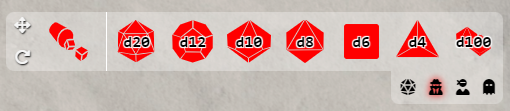
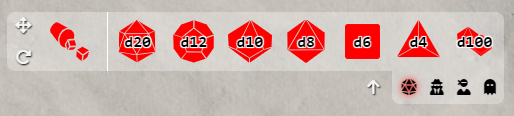
- change role mode button position on the fly

diff --git a/styles/fast-dice-box.css b/styles/fast-dice-box.css
@@ -36,7 +36,7 @@
 }
 
 #fast-dice-box .dice-content,
-#fast-dice-box .roll-mode-content{
+#fast-dice-box .roll-modes {
   display: flex;
   gap: var(--fdb-gap);
   height: fit-content;
@@ -46,21 +46,24 @@
   font-size: var(--fdb-font-size);
 }
 
-#fast-dice-box .dice-content {
-
-}
-
 #fast-dice-box .roll-mode-content {
-  justify-content: end;
-  align-self: end;
-  background-color: var(--fdb-background-color);
-}
-
-#fast-dice-box .roll-mode-content > i {
+  display: flex;
+  align-items: center;
+  gap: var(--fdb-gap);
   pointer-events: all;
 }
 
-#fast-dice-box .roll-mode-content > i.active {
+#fast-dice-box .roll-mode-content, #fast-dice-box .roll-modes {
+  justify-content: end;
+  align-self: end;
+}
+
+#fast-dice-box .roll-mode-content > i,
+#fast-dice-box .roll-modes > i{
+  pointer-events: all;
+}
+
+#fast-dice-box .roll-modes > i.active {
   /*noinspection CssUnresolvedCustomProperty*/
   text-shadow: 0 0 8px var(--color-shadow-primary);
 }
@@ -73,17 +76,16 @@
   border-radius: 0 0 0 var(--fdb-border-radius);
 }
 
-#fast-dice-box.row .roll-mode-content {
+#fast-dice-box.row .roll-modes {
   border-radius: 0 0 var(--fdb-border-radius) var(--fdb-border-radius);
 }
 
-#fast-dice-box.column .roll-mode-content {
+#fast-dice-box.column .roll-modes {
   border-radius: 0 var(--fdb-border-radius) var(--fdb-border-radius) 0;
 }
 
 #fast-dice-box.row,
 #fast-dice-box.row > .content > .dice-content,
-#fast-dice-box.row > .content > .roll-mode-content,
 #fast-dice-box.column > .content,
 #fast-dice-box.column .buttons {
   flex-direction: row;
@@ -91,9 +93,18 @@
 
 #fast-dice-box.column,
 #fast-dice-box.column > .content > .dice-content,
-#fast-dice-box.column > .content > .roll-mode-content,
 #fast-dice-box.row > .content,
 #fast-dice-box.row .buttons {
+  flex-direction: column;
+}
+
+#fast-dice-box.row > .content > .roll-mode-content,
+#fast-dice-box.row > .content > .roll-mode-content > .roll-modes {
+  flex-direction: row;
+}
+
+#fast-dice-box.column > .content > .roll-mode-content,
+#fast-dice-box.column > .content > .roll-mode-content > .roll-modes {
   flex-direction: column;
 }
 
@@ -117,11 +128,11 @@
   border-radius: 0 0 var(--fdb-border-radius) 0;
 }
 
-#fast-dice-box.row.reversed .roll-mode-content {
+#fast-dice-box.row.reversed .roll-modes {
   border-radius: var(--fdb-border-radius) var(--fdb-border-radius) 0 0;
 }
 
-#fast-dice-box.column.reversed .roll-mode-content {
+#fast-dice-box.column.reversed .roll-modes {
   border-radius: var(--fdb-border-radius) 0 0 var(--fdb-border-radius);
 }
 
@@ -136,6 +147,11 @@
   height: fit-content;
   width: fit-content;
   font-size: var(--fdb-font-size);
+}
+
+#fast-dice-box .roll-mode-content > i {
+  color: whitesmoke;
+  text-shadow: 1px 1px 2px var(--color-shadow-dark);
 }
 
 #fast-dice-box.row > .controls {

diff --git a/module/fast-dice-box.js b/module/fast-dice-box.js
@@ -71,8 +71,32 @@ export class FastDiceBox extends Application {
             element.get(0).classList.add(directionColumn ? "column" : "row");
             element.get(0).classList.remove(directionColumn ? "row" : "column");
 
-            element.find(`.roll-mode-content > i`).removeClass("active");
-            element.find(`.roll-mode-content > i[data-rm=${rollMode}]`).addClass("active");
+            element.find(".roll-mode-content > i").removeClass();
+            element.find(".roll-mode-content > i").addClass("fa-solid");
+
+            if(!directionColumn) {
+                if(rollModeReversed) {
+                    element.find(".roll-mode-content > i").addClass("fa-arrow-down");
+
+                }
+                else {
+                    element.find(".roll-mode-content > i").addClass("fa-arrow-up");
+                }
+            }
+            else {
+                if(rollModeReversed) {
+                    element.find(".roll-mode-content > i").addClass("fa-arrow-right");
+
+                }
+                else {
+                    element.find(".roll-mode-content > i").addClass("fa-arrow-left");
+                }
+            }
+
+
+
+            element.find(`.roll-modes > i`).removeClass("active");
+            element.find(`.roll-modes > i[data-rm=${rollMode}]`).addClass("active");
 
             if(rollModeReversed){
                 element.addClass("reversed");
@@ -93,7 +117,8 @@ export class FastDiceBox extends Application {
 
         html.find("#orientation").mousedown(this.onOrientationChange)
 
-        html.find(".roll-mode-content > i").mousedown(this.onChangeRollMode);
+        html.find(".roll-mode-content > i").mousedown(this.onChangeRollModePosition)
+        html.find(".roll-modes > i").mousedown(this.onChangeRollMode);
 
         this.dragElement(html.get(0), html.find("#drag").get(0));
     }
@@ -229,8 +254,12 @@ export class FastDiceBox extends Application {
     }
 
     rollModeChanged(newRollMode) {
-        this.element.find(`.roll-mode-content > i`).removeClass("active");
-        this.element.find(`.roll-mode-content > i[data-rm=${this.getRollModeConstantName(newRollMode)}]`).addClass("active");
+        this.element.find(`.roll-modes > i`).removeClass("active");
+        this.element.find(`.roll-modes > i[data-rm=${this.getRollModeConstantName(newRollMode)}]`).addClass("active");
+    }
+
+    async onChangeRollModePosition() {
+        await game.settings.set(CONST.MODULE_NAME, "rmReversed", !game.settings.get(CONST.MODULE_NAME, "rmReversed"));
     }
 }
 

diff --git a/templates/apps/fast-dice-box.html b/templates/apps/fast-dice-box.html
@@ -22,10 +22,13 @@
       {{/each}}
     </div>
     <div class="roll-mode-content">
-      <i class="fa-solid fa-dice-d20" data-rm="publicroll" data-tooltip="CHAT.RollPublic" aria-describedby="tooltip"></i>
-      <i class="fa-solid fa-user-secret" data-rm="gmroll" data-tooltip="CHAT.RollPrivate" aria-describedby="tooltip"></i>
-      <i class="fa-solid fa-user-ninja" data-rm="blindroll" data-tooltip="CHAT.RollBlind" aria-describedby="tooltip"></i>
-      <i class="fa-solid fa-ghost" data-rm="selfroll" data-tooltip="CHAT.RollSelf" aria-describedby="tooltip"></i>
+      <i></i>
+      <div class="roll-modes">
+        <i class="fa-solid fa-dice-d20" data-rm="publicroll" data-tooltip="CHAT.RollPublic" aria-describedby="tooltip"></i>
+        <i class="fa-solid fa-user-secret" data-rm="gmroll" data-tooltip="CHAT.RollPrivate" aria-describedby="tooltip"></i>
+        <i class="fa-solid fa-user-ninja" data-rm="blindroll" data-tooltip="CHAT.RollBlind" aria-describedby="tooltip"></i>
+        <i class="fa-solid fa-ghost" data-rm="selfroll" data-tooltip="CHAT.RollSelf" aria-describedby="tooltip"></i>
+      </div>
     </div>
   </div>
 </div>
